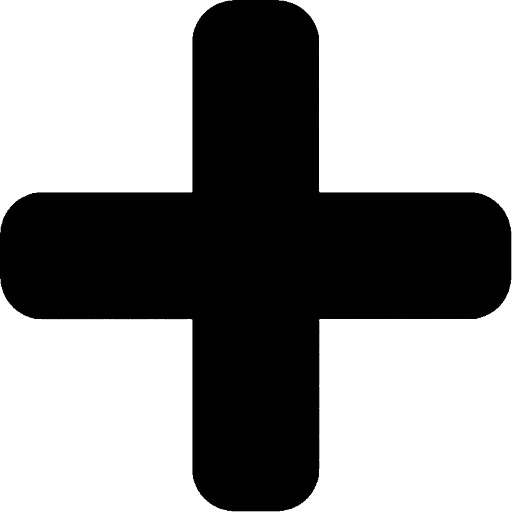
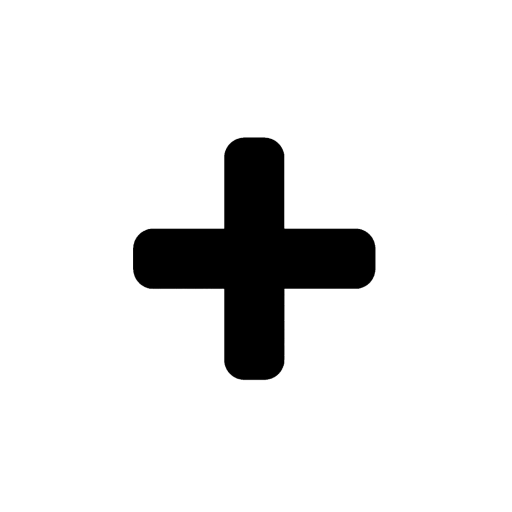
Fix buttons (#147)
Fix broken buttons and use QResources for icons throughout the GUI.

diff --git a/src/gui/widgets/gudpy_tree.py b/src/gui/widgets/gudpy_tree.py
@@ -14,8 +14,6 @@ from src.gudrun_classes.sample_background import SampleBackground
 from src.gudrun_classes.container import Container
 from src.gudrun_classes.config import NUM_GUDPY_CORE_OBJECTS
 from copy import deepcopy
-import os
-import sys
 
 
 class GudPyTreeModel(QAbstractItemModel):
@@ -81,29 +79,8 @@ class GudPyTreeModel(QAbstractItemModel):
         super(GudPyTreeModel, self).__init__(parent)
         self.gudrunFile = gudrunFile
         self.persistentIndexes = {}
-        if hasattr(sys, '_MEIPASS'):
-            self.sampleIcon = QIcon(
-                os.path.join(
-                    sys._MEIPASS, "resources", "sample.png"
-                )
-            )
-            self.containerIcon = QIcon(
-                os.path.join(
-                    sys._MEIPASS, "resources", "container.png"
-                )
-            )
-        else:
-            current_dir = os.path.dirname(os.path.realpath(__file__))
-            self.containerIcon = QIcon(
-                os.path.join(
-                    current_dir, "ui_files", "resources", "container.png"
-                )
-            )
-            self.sampleIcon = QIcon(
-                os.path.join(
-                    current_dir, "ui_files", "resources", "sample.png"
-                )
-            )
+        self.sampleIcon = QIcon(":/icons/sample")
+        self.containerIcon = QIcon(":/icons/container")
 
     def index(self, row, column, parent=QModelIndex()):
         """

diff --git a/src/gui/widgets/sample_slots.py b/src/gui/widgets/sample_slots.py
@@ -152,7 +152,7 @@ class SampleSlots():
         self.widget.sampleDataFilesList.itemEntered.connect(
             self.handleDataFileInserted
         )
-        self.widget.addDataFileButton.clicked.connect(
+        self.widget.addSampleDataFileButton.clicked.connect(
             lambda: self.addFiles(
                 self.widget.sampleDataFilesList,
                 "Add data files",
@@ -160,7 +160,7 @@ class SampleSlots():
                 f" (*.{self.parent.gudrunFile.instrument.dataFileType})",
             )
         )
-        self.widget.removeDataFileButton.clicked.connect(
+        self.widget.removeSampleDataFileButton.clicked.connect(
             lambda: self.removeFile(
                 self.widget.sampleDataFilesList, self.sample.dataFiles
             )
@@ -799,7 +799,7 @@ class SampleSlots():
         """
         Slot for adding files to the data files list.
         Called when a clicked signal is emitted,
-        from the addDataFileButton.
+        from the addSampleDataFileButton.
         Parameters
         ----------
         target : QListWidget
@@ -821,7 +821,7 @@ class SampleSlots():
         """
         Slot for removing files from the data files list.
         Called when a clicked signal is emitted,
-        from the removeDataFileButton.
+        from the removeSampleDataFileButton.
         Parameters
         ----------
         target : QListWidget

diff --git a/src/gui/widgets/main_window.py b/src/gui/widgets/main_window.py
@@ -39,6 +39,7 @@ from src.gui.widgets.normalisation_slots import NormalisationSlots
 from src.gui.widgets.sample_background_slots import SampleBackgroundSlots
 from src.gui.widgets.sample_slots import SampleSlots
 import math
+from src.gui.widgets.resources import resources_rc  # noqa
 
 
 class GudPyMainWindow(QMainWindow):
@@ -93,6 +94,7 @@ class GudPyMainWindow(QMainWindow):
                     sys._MEIPASS, "ui_files", "mainWindow.ui"
                 )
             )
+            current_dir = os.path.sep
         else:
             current_dir = os.path.dirname(os.path.realpath(__file__))
             uifile = QFile(

diff --git a/src/gui/widgets/normalisation_slots.py b/src/gui/widgets/normalisation_slots.py
@@ -686,11 +686,9 @@ class NormalisationSlots():
 
     def removeDataFile(self, target, dataFiles):
         self.removeFile(target, dataFiles)
-        self.updateDataFilesList()
 
     def removeBgDataFile(self, target, dataFiles):
         self.removeFile(target, dataFiles)
-        self.updateBgDataFilesList()
 
     def updateCompositionTable(self):
         """
